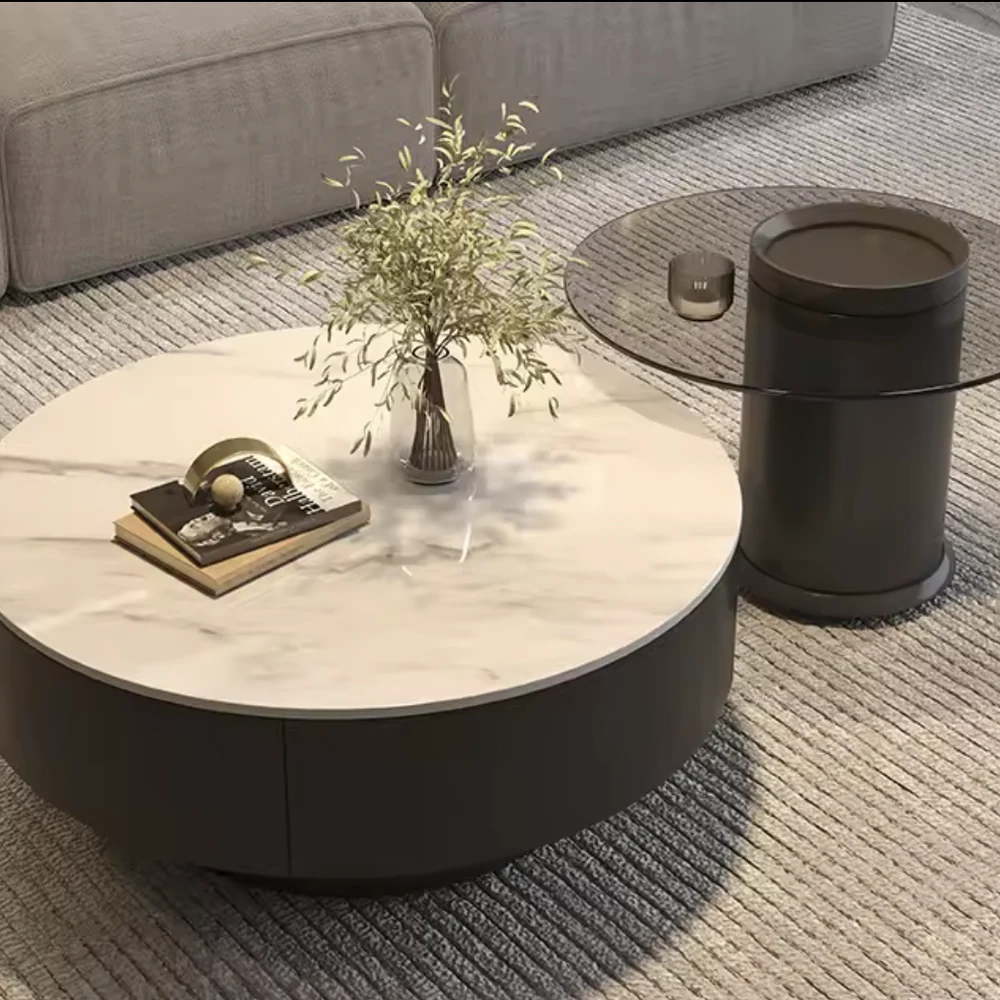
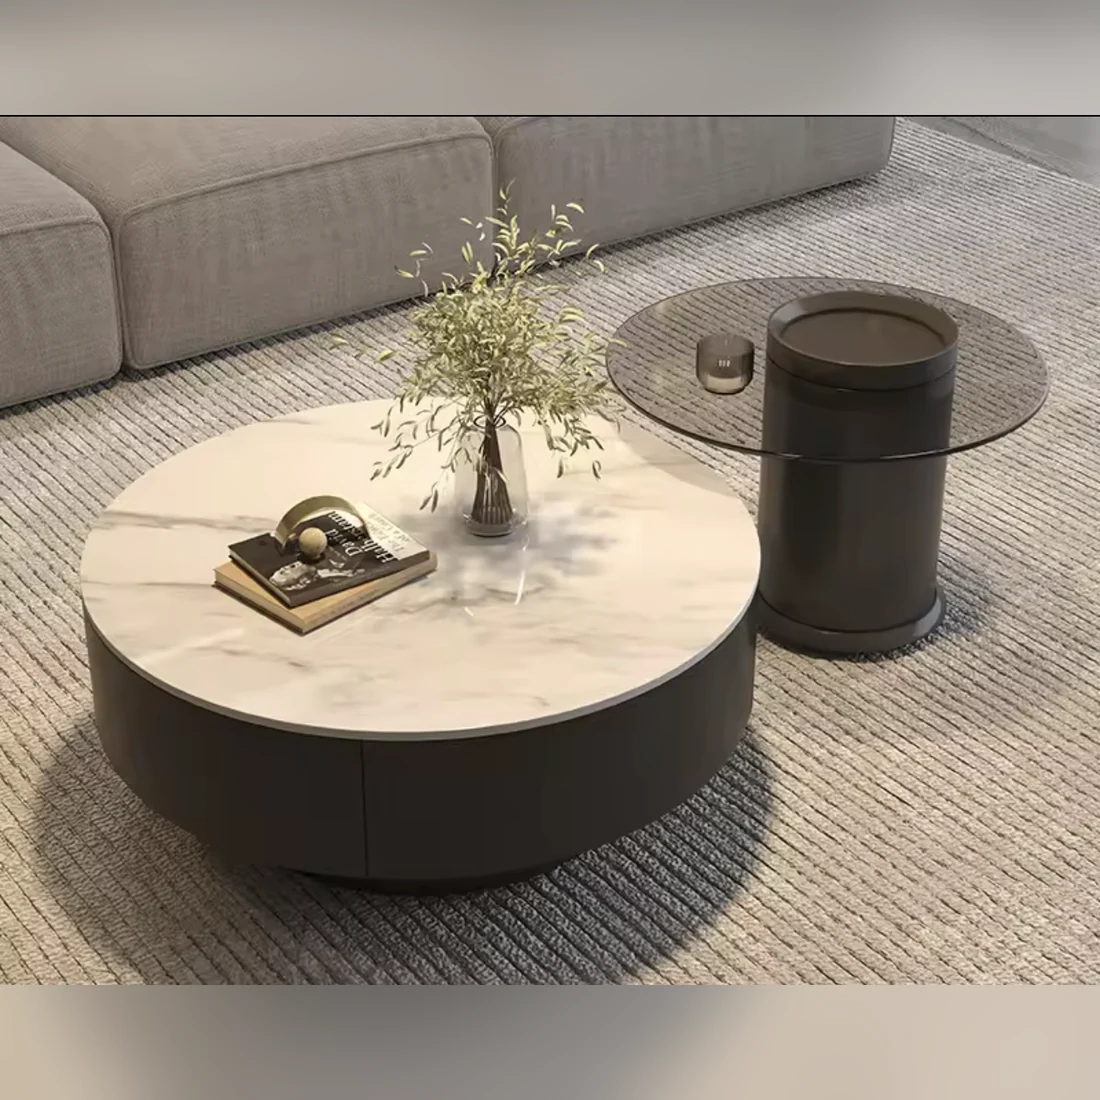
Luna coffee table: show the whole table and side table in every photo (no side cropping)
Claude-Session: https://claude.ai/code/session_01J9ECWTXfdNsErqcymSZiSL

diff --git a/js/data.js b/js/data.js
@@ -2400,8 +2400,8 @@ const PRODUCTS = [
     desc: "Beautiful from Every Angle. Storage from Both Sides. Bring texture, softness and clever storage to your living room with the Margot Oval Fluted Coffee Table in Natural . Its generous oval profile is wrapped in vertical fluted detailing, creating a sculptural centrepiece that looks considered from every angle. Two concealed drawers are positioned on opposite sides of the table, keeping remotes, coasters and everyday essentials neatly out of sight while remaining easy to reach from either side of your living space.",
     specs: { "Type": "Living Room > Tables > Coffee Tables" } },
 
-  { id: "lx71", arriveDays: [10, 18], variantImg: {"Matte Black + Brown Glass Side Table":"assets/products/lx71-2.webp", "Matte Black (coffee table only)":"assets/products/lx71-3.webp", "Cloud White (coffee table only)":"assets/products/lx71-4.webp", "Cloud White + Grey Glass Side Table":"assets/products/lx71-5.webp", "Cloud White + Brown Glass Side Table":"assets/products/lx71-6.webp", "Italian Grey + Black Glass Side Table":"assets/products/lx71-7.webp"}, name: "Luna Round Slate Coffee Table with Glass Side Table Option", cat: "Living Room", room: "Living Room", price: 3800, memberPrice: 3500, sku: "SH-11329", tag: "New", ph: "", img: "assets/products/lx71.webp",
-    imgs: ["assets/products/lx71.webp", "assets/products/lx71-2.webp", "assets/products/lx71-3.webp", "assets/products/lx71-4.webp", "assets/products/lx71-5.webp", "assets/products/lx71-6.webp", "assets/products/lx71-7.webp"],
+  { id: "lx71", arriveDays: [10, 18], variantImg: {"Matte Black + Brown Glass Side Table":"assets/products/lx71-2.webp?v=2", "Matte Black (coffee table only)":"assets/products/lx71-3.webp?v=2", "Cloud White (coffee table only)":"assets/products/lx71-4.webp?v=2", "Cloud White + Grey Glass Side Table":"assets/products/lx71-5.webp?v=2", "Cloud White + Brown Glass Side Table":"assets/products/lx71-6.webp?v=2", "Italian Grey + Black Glass Side Table":"assets/products/lx71-7.webp?v=2"}, name: "Luna Round Slate Coffee Table with Glass Side Table Option", cat: "Living Room", room: "Living Room", price: 3800, memberPrice: 3500, sku: "SH-11329", tag: "New", ph: "", img: "assets/products/lx71.webp",
+    imgs: ["assets/products/lx71.webp", "assets/products/lx71-2.webp?v=2", "assets/products/lx71-3.webp?v=2", "assets/products/lx71-4.webp?v=2", "assets/products/lx71-5.webp?v=2", "assets/products/lx71-6.webp?v=2", "assets/products/lx71-7.webp?v=2"],
     colours: [{ name: "Matte Black + Brown Glass Side Table", hex: "#2b2724" }, { name: "Matte Black (coffee table only)", hex: "#2b2724" }, { name: "Cloud White (coffee table only)", hex: "#ece6dc" }, { name: "Cloud White + Grey Glass Side Table", hex: "#ece6dc" }, { name: "Cloud White + Brown Glass Side Table", hex: "#ece6dc" }, { name: "Italian Grey + Black Glass Side Table", hex: "#8d8c8a" }],
     desc: "Bring quiet, Italian-inspired luxury to your living room with the Luna round coffee table. A smooth slate (sintered stone) top in matte black, cloud white or Italian grey sits on a deep, rounded drum base for a solid, sculptural look that suits modern apartments and family homes alike. Choose the coffee table on its own, or pair it with the matching 60cm side table, a slim column base with a round tempered glass top in brown, grey or black glass, for a layered, designer arrangement beside the sofa.",
     features: [
